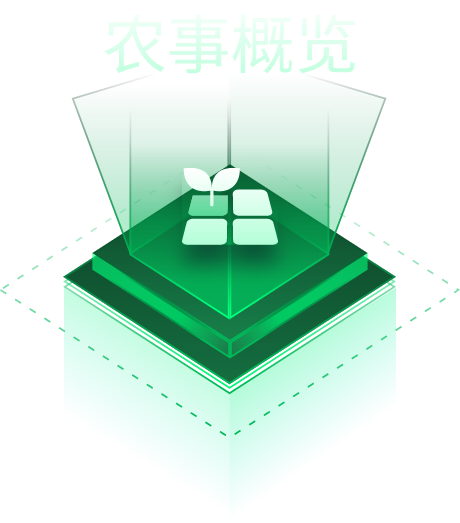
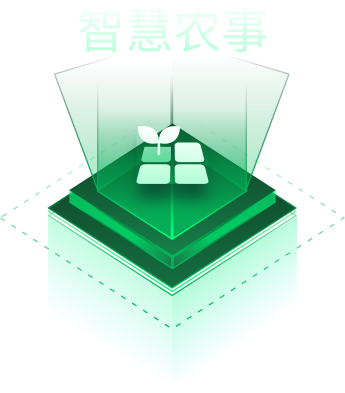
feat: HomePage页面调整

diff --git a/src/views/homePages/home.vue b/src/views/homePages/home.vue
@@ -38,13 +38,13 @@
             </div>
             <div class="left-line cursor-pointer">
               <div
-                class="agri-bg relative left-[-13em] top-[-4em]"
+                class="agri-bg relative left-[-13em] top-[-7em]"
                 @click="routerHandler('智慧农事')"
               ></div>
             </div>
             <div class="right-line cursor-pointer">
               <div
-                class="digital-bg relative right-[-13em] top-[-4em]"
+                class="digital-bg relative right-[-13em] top-[-7em]"
                 @click="routerHandler('数字产销')"
               ></div>
             </div>
@@ -60,75 +60,90 @@
                 @click="routerHandler('可视化驾驶舱')"
               ></div>
             </div>
+            <div class="monitor-detect" @click="routerHandler('模型监测')"></div>
             <!-- 两侧菜单 -->
             <div class="rect-bg text-[#fff] text-[1.2em] relative cursor-default">
+              <div class="absolute left-[-14rem] top-0 w-[17rem] h-full flex flex-col justify-between py-[2.5rem] box-border">
+                <div class="left-top-wrapper flex flex-col space-y-[.7rem]">
+                  <div
+                    class="lt-label-1 w-[10em] h-[2.4em] flex flex-row-reverse items-center pr-[2em] text-[1.4em] relative left-[1.2rem]"
+                    @click="routerHandler('GIS一张图')"
+                  >GIS一张图</div>
+                  <div
+                    class="lt-label-2 w-[10em] h-[2.4em] flex flex-row-reverse items-center pr-[2em] relative left-[-.2rem] text-[1.4em]"
+                    @click="routerHandler('设备概览')"
+                  >设备概览</div>
+                  <div
+                    class="lt-label-3 w-[10em] h-[2.4em] flex flex-row-reverse items-center pr-[2em] relative left-[-1.1em] text-[1.4em]"
+                    @click="routerHandler('数字监测')"
+                  >数字监测</div>
+                  <div
+                    class="lt-label-4 w-[10em] h-[2.4em] flex flex-row-reverse items-center pr-[2em] relative left-[-2.2rem] text-[1.4em]"
+                    @click="routerHandler('智能预警')"
+                  >智能预警</div>
+                </div>
+                <div class="left-bottom-wrapper flex flex-col space-y-[.7rem]">
+                  <div
+                    class="lb-label-4 w-[10em] h-[2.4em] flex flex-row-reverse items-center pr-[2em] relative left-[-2.2rem] text-[1.4em]"
+                    @click="routerHandler('农事概览')"
+                  >农事概览</div>
+                  <div
+                    class="lb-label-3 w-[10em] h-[2.4em] flex flex-row-reverse items-center pr-[2em] relative left-[-1.4rem] text-[1.4em]"
+                    @click="routerHandler('农事活动')"
+                  >农事活动</div>
+                  <div
+                    class="lb-label-2 w-[10em] h-[2.4em] flex flex-row-reverse items-center pr-[2em] relative left-[-.1rem] text-[1.4em]"
+                    @click="routerHandler('种植管理')"
+                  >种植管理</div>
+                  <div
+                    class="lb-label-1 w-[10em] h-[2.4em] flex flex-row-reverse items-center pr-[2em] relative left-[1.5rem] text-[1.4em]"
+                    @click="routerHandler('种植溯源')"
+                  >种植溯源</div>
+                </div>
+              </div>
+              <div class="absolute right-[-14rem] top-0 w-[17rem] h-full flex flex-col justify-between py-[2.5rem] box-border">
+                <div class="right-top-wrapper flex flex-col space-y-[.7rem]">
+                  <div
+                    class="rt-label-1 w-[10em] h-[2.4em] flex items-center pl-[2em] relative left-[.5em] text-[1.4em]"
+                    @click="routerHandler('基地总览')"
+                  >基地总览</div>
+                  <div
+                    class="rt-label-2 w-[10em] h-[2.4em] flex items-center pl-[2em] relative left-[1.7em] text-[1.4em]"
+                    @click="routerHandler('投入品管理')"
+                  >投入品管理</div>
+                  <div
+                    class="rt-label-3 w-[10em] h-[2.4em] flex items-center pl-[2em] relative left-[2.6em] text-[1.4em]"
+                    @click="routerHandler('库存管理')"
+                  >库存管理</div>
+                  <div
+                    class="rt-label-4 w-[10em] h-[2.4em] flex items-center pl-[2em] relative left-[3.3em] text-[1.4em]"
+                    @click="routerHandler('采购管理')"
+                  >采购管理</div>
+                </div>
+                <div class="right-bottom-wrapper flex flex-col space-y-[.7rem]">
+                  <div
+                    class="rb-label-4 w-[10em] h-[2.4em] flex items-center pl-[2em] relative left-[3.3em] text-[1.4em]"
+                    @click="routerHandler('加工记录')"
+                  >加工记录</div>
+                  <div
+                    class="rb-label-3 w-[10em] h-[2.4em] flex items-center pl-[2em] relative left-[2.6em] text-[1.4em]"
+                    @click="routerHandler('产品流通')"
+                  >产品流通</div>
+                  <div
+                    class="rb-label-2 w-[10em] h-[2.4em] flex items-center pl-[2em] relative left-[1.7em] text-[1.4em]"
+                    @click="routerHandler('营销方案')"
+                  >营销方案</div>
+                  <div
+                    class="rb-label-1 w-[10em] h-[2.4em] flex items-center pl-[2em] relative left-[.5em] text-[1.4em]"
+                    @click="routerHandler('特色产品')"
+                  >特色产品</div>
+                </div>
+              </div>
               <!-- 左右圆弧上的翠绿色短弧和箭头 -->
               <div class="left-decorator"></div>
               <div class="left-arrow"></div>
               <div class="right-decorator"></div>
               <div class="right-arrow"></div>
-              <!-- 选项菜单 -->
-              <div
-                class="lt-label-1 w-[10em] h-[2.4em] flex flex-row-reverse items-center pr-[2em] absolute left-[-10.1em] top-[2em] text-[1.4em]"
-                @click="routerHandler('GIS一张图')"
-              >GIS一张图</div>
-              <div
-                class="lt-label-2 w-[10em] h-[2.4em] flex flex-row-reverse items-center pr-[2em] absolute left-[-11.4em] top-[5em] text-[1.4em]"
-                @click="routerHandler('数字监测')"
-              >数字监测</div>
-              <div
-                class="lt-label-3 w-[10em] h-[2.4em] flex flex-row-reverse items-center pr-[2em] absolute left-[-12.4em] top-[8em] text-[1.4em]"
-                @click="routerHandler('智能预警')"
-              >智能预警</div>
-              <div
-                class="lt-label-4 w-[10em] h-[2.4em] flex flex-row-reverse items-center pr-[2em] absolute left-[-13.1em] top-[11em] text-[1.4em]"
-                @click="routerHandler('设备巡检')"
-              >设备巡检</div>
-              <div
-                class="lb-label-4 w-[10em] h-[2.4em] flex flex-row-reverse items-center pr-[2em] absolute left-[-13.1em] top-[19em] text-[1.4em]"
-                @click="routerHandler('农事概览')"
-              >农事概览</div>
-              <div
-                class="lb-label-3 w-[10em] h-[2.4em] flex flex-row-reverse items-center pr-[2em] absolute left-[-12.5em] top-[19.5em] text-[1.4em]"
-                @click="routerHandler('农事活动')"
-              >农事活动</div>
-              <div
-                class="lb-label-2 w-[10em] h-[2.4em] flex flex-row-reverse items-center pr-[2em] absolute left-[-11.6em] top-[20em] text-[1.4em]"
-                @click="routerHandler('监测模型')"
-              >监测模型</div>
-              <div
-                class="lb-label-1 w-[10em] h-[2.4em] flex flex-row-reverse items-center pr-[2em] absolute left-[-10.4em] top-[20.5em] text-[1.4em]"
-                @click="routerHandler('种植管理')"
-              >种植管理</div>
-
-              <div
-                class="rt-label-1 w-[10em] h-[2.4em] flex items-center pl-[2em] absolute left-[64.5em] top-[-6em] text-[1.4em]"
-                @click="routerHandler('基地总览')"
-              >基地总览</div>
-              <div
-                class="rt-label-2 w-[10em] h-[2.4em] flex items-center pl-[2em] absolute left-[65.7em] top-[-5.5em] text-[1.4em]"
-                @click="routerHandler('投入品管理')"
-              >投入品管理</div>
-              <div
-                class="rt-label-3 w-[10em] h-[2.4em] flex items-center pl-[2em] absolute left-[66.6em] top-[-5em] text-[1.4em]"
-                @click="routerHandler('库存管理')"
-              >库存管理</div>
-              <div
-                class="rb-label-4 w-[10em] h-[2.4em] flex items-center pl-[2em] absolute left-[67.1em] top-[2em] text-[1.4em]"
-                @click="routerHandler('加工记录')"
-              >加工记录</div>
-              <div
-                class="rb-label-3 w-[10em] h-[2.4em] flex items-center pl-[2em] absolute left-[66.5em] top-[2.5em] text-[1.4em]"
-                @click="routerHandler('产品流通')"
-              >产品流通</div>
-              <div
-                class="rb-label-2 w-[10em] h-[2.4em] flex items-center pl-[2em] absolute left-[65.6em] top-[3em] text-[1.4em]"
-                @click="routerHandler('营销方案')"
-              >营销方案</div>
-              <div
-                class="rb-label-1 w-[10em] h-[2.4em] flex items-center pl-[2em] absolute left-[64.4em] top-[3.5em] text-[1.4em]"
-                @click="routerHandler('特色产品')"
-              >特色产品</div>
             </div>
           </div>
         </div>
@@ -183,32 +198,36 @@ onUnmounted(() => {
 
 const routerHandler = (item: string) => {
   const routeMap = {
-    可视化驾驶舱: wsCache.get(CACHE_KEY.BIGSCREEN_PATH) || '/homeIndex',
+    '可视化驾驶舱': wsCache.get(CACHE_KEY.BIGSCREEN_PATH) || '/homeIndex',
 
-    GIS一张图: '/internetMonitor/gis',
-    设备巡检: '/internetMonitor/check/checkView',
-    智能预警: '/internetMonitor/warn/agri-warning-record',
-    数字监测: '/internetMonitor/deviceData/equipment-data-three',
+    'GIS一张图': '/internetMonitor/gis',
+    '设备巡检': '/internetMonitor/check/checkView',
+    '设备概览': '/internetMonitor/device/overview',
+    '智能预警': '/internetMonitor/warn/agri-warning-record',
+    '数字监测': '/internetMonitor/deviceData/equipment-data-three',
 
-    农事活动: '/farm_work/farmManage/farm-record',
-    种植管理: '/farm_work/crop-base',
-    监测模型: '/growth_monitor/modelMonitor',
-    农事概览: '/farm_work/agriOverview',
+    '农事活动': '/farm_work/farmManage/farm-record',
+    '种植管理': '/farm_work/crop-base',
+    '种植溯源': '/trace/lifeTrace',
+    '监测模型': '/growth_monitor/modelMonitor',
+    '农事概览': '/farm_work/agriOverview',
 
-    基地总览: '/asset/baseOVerview',
-    投入品管理: '/asset/agriculturalResourcesManagement/duck-house-management',
-    库存管理: '/asset/inventory/stock/warehouse',
+    '基地总览': '/asset/baseOVerview',
+    '投入品管理': '/asset/agriculturalResourcesManagement/duck-house-management',
+    '库存管理': '/asset/inventory/stock/warehouse',
+    '采购管理': '/farm_work/harvest-management',
 
-    特色产品: '/pcg/production/village-product',
-    营销方案: '/pcg/marketingCenter/marketing-program',
-    产品流通: '/pcg/sale/sales-management',
-    加工记录: '/pcg/product/record',
+    '特色产品': '/pcg/production/village-product',
+    '营销方案': '/pcg/marketingCenter/marketing-program',
+    '产品流通': '/pcg/sale/sales-management',
+    '加工记录': '/pcg/product/record',
 
-    智能感知: '/internetMonitor/deviceData/equipment-smart-count',
-    农业资源: '/asset/base/parkinfo',
-    视频监控: '/internetMonitor/deviceData/info',
-    数字产销: '/pcg/production/village-product',
-    智慧农事: '/farm_work/crop-base'
+    '智能感知': '/internetMonitor/deviceData/equipment-smart-count',
+    '农业资源': '/asset/base/parkinfo',
+    '视频监控': '/internetMonitor/deviceData/info',
+    '数字产销': '/pcg/production/village-product',
+    '智慧农事': '/farm_work/crop-base',
+    '模型监测': '/growth_monitor/modelMonitor'
   }
 
   if (routeMap[item]) {
@@ -374,16 +393,16 @@ const loginOut = async () => {
   background-image: url(./assets/homeV2/down-left-line.png);
   width: 6em;
   height: 11em;
-  left: 4em;
-  top: 8em;
+  left: 0em;
+  top: 6em;
 }
 
 .down-right-line {
   background-image: url(./assets/homeV2/down-right-line.png);
   width: 6em;
   height: 11em;
-  left: 22em;
-  top: -3em;
+  left: 25em;
+  top: -4em;
 }
 
 .left-line {
@@ -434,6 +453,16 @@ const loginOut = async () => {
     transform: scale(1.1);
     transition: all 0.3s ease;
   }
+}
+
+.monitor-detect {
+  background-image: url(./assets/homeV2/monitorDetect.png);
+  background-size: 100% 100%;
+  width: 12rem;
+  aspect-ratio: .73;
+  position: absolute;
+  left: 5.6rem;
+  top: 24rem;
 }
 
 .rect-bg {
